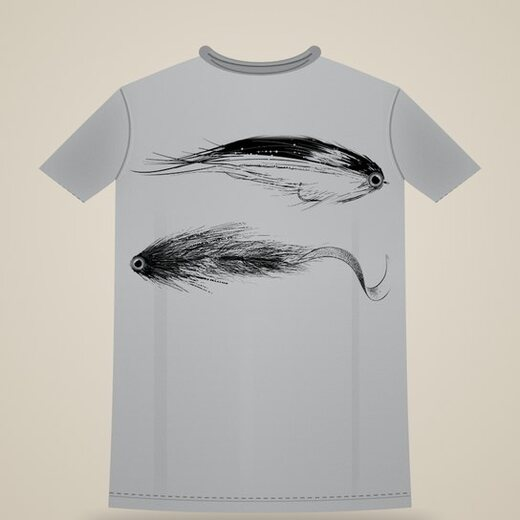
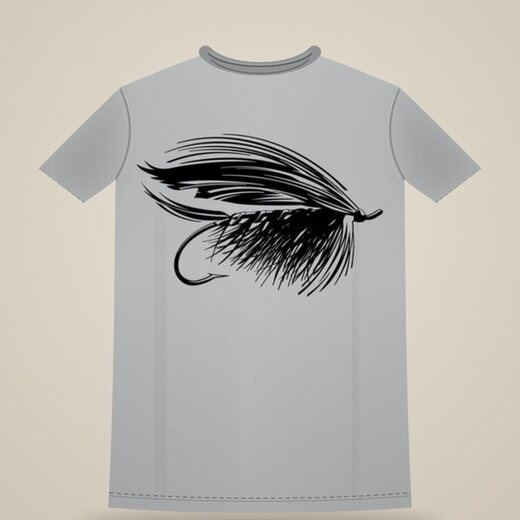
Add files via upload

Changed region(s): [[0.2462, 0.2462, 0.7385, 0.5846]]

diff --git a/index.html b/index.html
@@ -1,11 +1,4 @@
-<!doctype html>
-<html lang="es">
-<head>
-<meta charset="utf-8">
-<meta name="viewport" content="width=device-width, initial-scale=1, viewport-fit=cover">
-<meta name="description" content="Catálogo 2026 de Last Cast: remeras, buzos, chombas y gorras de pesca. Pedí por WhatsApp.">
-<style>body{margin:0}img{max-width:100%}</style>
-<title>Last Cast Catálogo 2026</title>
+<!doctype html><html lang="es"><head><meta charset="utf-8"><meta name="viewport" content="width=device-width,initial-scale=1"><meta name="description" content="Last Cast - indumentaria de pesca 2026"><style>body{margin:0}img{max-width:100%}</style><title>Last Cast Catálogo 2026</title>
 <meta name="claude:viewport-fit-sides" content="cover">
 <link rel="preconnect" href="https://fonts.googleapis.com">
 <link rel="preconnect" href="https://fonts.gstatic.com" crossorigin>
@@ -120,6 +113,12 @@ section { padding-block: 40px 8px; }
 .card .cat { color: var(--muted); font-size: .8rem; }
 .card:hover { border-color: var(--accent); }
 .note { color: var(--muted); font-size: .85rem; margin-top: 12px; }
+.gtabs { display: flex; gap: 8px; margin-top: 16px; }
+.gtab { min-height: 48px; padding: 0 22px; border-radius: 10px; border: 2px solid var(--line); background: transparent; font-family: var(--display); font-weight: 800; letter-spacing: .06em; text-transform: uppercase; font-size: 1.25rem; }
+.gtab.sec { font-size: 1.05rem; font-weight: 700; padding: 0 16px; color: var(--muted); }
+.gtab[aria-pressed="true"] { background: var(--accent); border-color: var(--accent); color: var(--on-accent); }
+.custom { margin-top: 14px; padding: 12px 14px; border: 1.5px solid var(--accent); border-radius: 10px; background: var(--surface); }
+.custom b { display: block; font-family: var(--display); font-size: 1.15rem; letter-spacing: .04em; text-transform: uppercase; color: var(--accent-text); }
 
 /* Producto aparte */
 .split { display: grid; gap: 14px; margin-top: 16px; }
@@ -183,22 +182,22 @@ footer { margin-top: 28px; padding-block: 20px; color: var(--muted); font-size: 
 
 <header class="top">
   <div class="wrap">
-    <a class="brand" href="#inicio" aria-label="Last Cast, inicio"><img src="logo.jpg" alt="" width="34" height="34"><b>Last Cast</b></a>
+    <a class="brand" href="#inicio" aria-label="Last Cast, inicio"><img src="img/logo.jpg" alt="" width="34" height="34"><b>Last Cast</b></a>
     <nav class="nav" aria-label="Secciones">
-      <a href="#disenos">Diseños</a><a href="#chombas">Chombas</a><a href="#gorras">Gorras</a><a href="#talles">Talles</a><a href="#pagos">Pagos</a>
+      <a href="#disenos">Diseños</a><a href="#disenos" id="navMujer">Mujer</a><a href="#chombas">Chombas</a><a href="#gorras">Gorras</a><a href="#talles">Talles</a><a href="#pagos">Pagos</a>
     </nav>
   </div>
 </header>
 
 <main class="wrap" id="inicio">
   <div class="hero">
-    <img src="hero.jpg" alt="Remeras Last Cast colgadas en una cabaña de pesca">
+    <img src="img/hero.jpg" alt="Remeras Last Cast colgadas en una cabaña de pesca">
     <div class="hero-in">
       <div class="eyebrow" style="color:#f58a2f">Catálogo 2026 · Edición limitada</div>
       <h1>Fish more.<br><em>Live wilder.</em></h1>
-      <p>Remeras, buzos canguro, chombas y gorras con diseños exclusivos de pesca. Envíos a todo el país.</p>
+      <p>Remeras y buzos canguro para hombre y mujer, chombas y gorras con diseños exclusivos de pesca. Envíos a todo el país.</p>
       <div class="hero-cta">
-        <a class="btn" href="#disenos">Ver los 40 diseños</a>
+        <a class="btn" href="#disenos">Ver los diseños</a>
         <a class="btn ghost" href="#como">Cómo comprar</a>
       </div>
     </div>
@@ -208,8 +207,8 @@ footer { margin-top: 28px; padding-block: 20px; color: var(--muted); font-size: 
 
   <section id="precios" style="padding-top:28px">
     <div class="prices">
-      <div class="price"><span>Remera</span><strong>$35.000</strong><small>4 colores</small></div>
-      <div class="price"><span>Buzo canguro</span><strong>$50.000</strong><small>3 colores</small></div>
+      <div class="price"><span>Remera · hombre y mujer</span><strong>$35.000</strong><small>4 colores · diseño atrás o adelante</small></div>
+      <div class="price"><span>Buzo canguro · hombre y mujer</span><strong>$50.000</strong><small>3 colores · diseño atrás o adelante</small></div>
       <div class="price"><span>Chomba bordada</span><strong>$45.000</strong><small>3 colores</small></div>
       <div class="price"><span>Gorra</span><strong>$25.000</strong><small>21 combinaciones</small></div>
     </div>
@@ -219,7 +218,7 @@ footer { margin-top: 28px; padding-block: 20px; color: var(--muted); font-size: 
     <div class="eyebrow">Cómo comprar</div>
     <h2>Cuatro pasos</h2>
     <ol class="steps">
-      <li><div><b>Elegí el diseño</b><span>Tocá el que te guste en la grilla. Todos están como remera y como buzo.</span></div></li>
+      <li><div><b>Elegí el diseño</b><span>Tocá el que te guste en la grilla. Todos están como remera y como buzo, con el diseño atrás o adelante, como prefieras.</span></div></li>
       <li><div><b>Prenda y color</b><span>Remera en blanco, gris claro, gris oscuro o negro. Buzo en negro, blanco o gris.</span></div></li>
       <li><div><b>Talle y cantidad</b><span>Mirá la guía de talles más abajo. Si dudás entre dos, elegí el más grande.</span></div></li>
       <li><div><b>Enviá el pedido</b><span>Se arma el mensaje solo y lo mandás por WhatsApp. Te confirmamos y coordinamos el pago.</span></div></li>
@@ -228,8 +227,10 @@ footer { margin-top: 28px; padding-block: 20px; color: var(--muted); font-size: 
 
   <section id="disenos">
     <div class="eyebrow">Remeras y buzos</div>
-    <h2>37 diseños exclusivos</h2>
-    <p class="lead">Elegí el número de diseño. El mismo estampado va en remera o buzo, en el color que prefieras. Las remeras son 100% algodón premium.</p>
+    <h2>Diseños exclusivos</h2>
+    <div class="gtabs" role="group" aria-label="Línea"><button class="gtab" id="gH" type="button" aria-pressed="true">Hombre</button><button class="gtab sec" id="gM" type="button" aria-pressed="false">Mujer</button></div>
+    <p class="lead" id="gLead">Elegí el número de diseño. El mismo estampado va en remera o buzo, en el color que prefieras. Las remeras son 100% algodón premium.</p>
+    <div class="custom"><b>Diseño personalizable</b>En remeras y buzos podés elegir si el diseño va atrás o adelante. Aclaralo al hacer el pedido.</div>
     <div class="chips" id="filters" role="group" aria-label="Filtrar diseños"></div>
     <div class="grid" id="grid"></div>
     <p class="note">Las imágenes son ilustrativas. El color y el tamaño pueden variar según el stock disponible.</p>
@@ -239,7 +240,7 @@ footer { margin-top: 28px; padding-block: 20px; color: var(--muted); font-size: 
     <div class="eyebrow">Bordadas</div>
     <h2>Chombas de piqué</h2>
     <div class="split">
-      <img src="chombas.jpg" alt="Chombas de piqué bordadas Last Cast en azul marino, gris claro y negro" loading="lazy">
+      <img src="img/chombas.jpg" alt="Chombas de piqué bordadas Last Cast en azul marino, gris claro y negro" loading="lazy">
       <div class="panel">
         <div class="price" style="background:none;border:0;padding:0"><span>Precio por chomba</span><strong>$45.000</strong></div>
         <div>
@@ -257,8 +258,8 @@ footer { margin-top: 28px; padding-block: 20px; color: var(--muted); font-size: 
     <h2>Gorras</h2>
     <div class="split">
       <div style="display:grid;gap:14px">
-        <img src="gorras-vintage.jpg" alt="Gorras Vintage gastadas en 9 combinaciones de color y logo" loading="lazy">
-        <img src="gorras-street.jpg" alt="Gorras Streetwear en 6 colores con 2 opciones de logo cada una" loading="lazy">
+        <img src="img/gorras-vintage.jpg" alt="Gorras Vintage gastadas en 9 combinaciones de color y logo" loading="lazy">
+        <img src="img/gorras-street.jpg" alt="Gorras Streetwear en 6 colores con 2 opciones de logo cada una" loading="lazy">
       </div>
       <div class="panel">
         <div class="price" style="background:none;border:0;padding:0"><span>Precio por gorra</span><strong>$25.000</strong></div>
@@ -274,7 +275,8 @@ footer { margin-top: 28px; padding-block: 20px; color: var(--muted); font-size: 
     <h2>Medidas</h2>
     <p class="lead">Medí una prenda tuya sobre una superficie plana. Las medidas pueden variar 1 o 2 cm. Si dudás entre dos talles, elegí el más grande.</p>
     <div class="chips" role="group" aria-label="Tipo de prenda">
-      <button class="chip on" id="tR" type="button">Remeras</button>
+      <button class="chip on" id="tR" type="button">Remeras hombre</button>
+      <button class="chip" id="tW" type="button">Remeras mujer</button>
       <button class="chip" id="tB" type="button">Buzos canguro</button>
     </div>
     <div class="tablewrap" id="tblR" tabindex="0" aria-label="Tabla de talles de remeras">
@@ -289,6 +291,18 @@ footer { margin-top: 28px; padding-block: 20px; color: var(--muted); font-size: 
           <tr><td>6</td><td>62 cm</td><td>78 cm</td></tr>
           <tr><td>8</td><td>65 cm</td><td>81 cm</td></tr>
           <tr><td>10</td><td>67 cm</td><td>83 cm</td></tr>
+        </tbody>
+      </table>
+    </div>
+    <div class="tablewrap" id="tblW" tabindex="0" aria-label="Tabla de talles de remeras de mujer" hidden>
+      <table>
+        <thead><tr><th>Talle</th><th>Ancho</th><th>Largo</th></tr></thead>
+        <tbody>
+          <tr><td>S</td><td>43 cm</td><td>60 cm</td></tr>
+          <tr><td>M</td><td>46 cm</td><td>63 cm</td></tr>
+          <tr><td>L</td><td>48 cm</td><td>65 cm</td></tr>
+          <tr><td>XL</td><td>50 cm</td><td>68 cm</td></tr>
+          <tr><td>XXL</td><td>53 cm</td><td>70 cm</td></tr>
         </tbody>
       </table>
     </div>
@@ -312,16 +326,10 @@ footer { margin-top: 28px; padding-block: 20px; color: var(--muted); font-size: 
     <div class="pay">
       <div><b>Billetera virtual</b><span>Transferencia desde cualquier billetera virtual.</span></div>
       <div><b>Transferencia bancaria</b><span>De banco a banco.</span></div>
-      <div><b>Tarjeta de débito o crédito</b><span>Consultanos las opciones de pago disponibles.</span></div>
+      <div><b>Tarjeta de débito o crédito</b><span>Con cualquier tarjeta, sin recargo.</span></div>
       <div><b>Efectivo</b><span>Te generamos un link de pago para abonar en efectivo.</span></div>
       <div><b>Envíos a todo el país</b><span>Gratis llevando 2 remeras y/o buzos. No incluye gorras.</span></div>
       <div><b>Cambios dentro de los 30 días</b><span>Escribinos por WhatsApp o Instagram y contanos el motivo del cambio.</span></div>
-    </div>
-    <div class="tablewrap">
-      <table>
-        <thead><tr><th>Prenda</th><th>Precio</th></tr></thead>
-        <tbody id="payTbl"></tbody>
-      </table>
     </div>
   </section>
 
@@ -353,13 +361,15 @@ footer { margin-top: 28px; padding-block: 20px; color: var(--muted); font-size: 
     chomba: [["Azul marino", "#1d2a4a"], ["Gris claro", "#b9bbbd"], ["Negro", "#121212"]]
   };
   var TALLES = { remera: ["S", "M", "L", "XL", "XXL", "6", "8", "10"], buzo: ["S", "M", "L", "XL", "XXL"] };
+  function tl(d, pr) { return (d.g === "m" && pr === "remera") ? ["S", "M", "L", "XL", "XXL"] : TALLES[pr]; }
   var GORRAS = {
     "Vintage gastadas": ["Arena, logo chocolate", "Arena, logo naranja", "Verde, logo naranja", "Verde, logo verde oscuro", "Salmón, logo naranja", "Marrón, logo naranja", "Marrón, logo marrón oscuro", "Gris oscura, logo negro", "Gris oscura, logo naranja"],
     "Streetwear": ["Arena, logo naranja", "Arena, logo marrón", "Gris oscura, logo naranja", "Gris oscura, logo gris claro", "Rosa, logo naranja", "Rosa, logo arena", "Verde oscuro, logo verde oscuro", "Verde oscuro, logo naranja", "Azul, logo naranja", "Azul, logo celeste claro", "Verde militar, logo naranja", "Verde militar, logo arena"]
   };
-  var CATS = [["Peces", 17], ["Moscas", 14], ["Pescadores", 5], ["Logo", 1], ["Nuevos diseños", 3]];
+  var CATS = [["Peces", 18], ["Moscas", 13], ["Pescadores", 5], ["Logo", 1]];
   var designs = [], n = 0;
-  CATS.forEach(function (c) { for (var i = 0; i < c[1]; i++) { n++; designs.push({ n: n, cat: c[0], img: "d" + (n < 10 ? "0" : "") + n + ".jpg" }); } });
+  CATS.forEach(function (c) { for (var i = 0; i < c[1]; i++) { n++; designs.push({ n: n, lab: (n < 10 ? "0" : "") + n, g: "h", cat: c[0], img: "img/d" + (n < 10 ? "0" : "") + n + ".jpg" }); } });
+  for (var k = 1; k <= 7; k++) designs.push({ n: 100 + k, lab: "M" + k, g: "m", cat: "Mujer", img: "img/m" + k + ".jpg" });
 
   function $(id) { return document.getElementById(id); }
   function money(v) { return "$" + String(Math.round(v)).replace(/\B(?=(\d{3})+(?!\d))/g, "."); }
@@ -368,7 +378,7 @@ footer { margin-top: 28px; padding-block: 20px; color: var(--muted); font-size: 
   function cap(s) { return s.charAt(0).toUpperCase() + s.slice(1); }
 
   /* Grilla */
-  var filter = "Todos";
+  var filter = "Todos", gender = "h";
   function renderFilters() {
     var box = $("filters"); box.innerHTML = "";
     ["Todos"].concat(CATS.map(function (c) { return c[0]; })).forEach(function (f) {
@@ -380,10 +390,10 @@ footer { margin-top: 28px; padding-block: 20px; color: var(--muted); font-size: 
   }
   function renderGrid() {
     var g = $("grid"); g.innerHTML = "";
-    designs.filter(function (d) { return filter === "Todos" || d.cat === filter; }).forEach(function (d) {
+    designs.filter(function (d) { return d.g === gender && (filter === "Todos" || d.cat === filter); }).forEach(function (d) {
       var b = document.createElement("button");
-      b.type = "button"; b.className = "card"; b.setAttribute("aria-label", "Diseño " + pad(d.n) + ", " + d.cat);
-      b.innerHTML = '<img src="' + d.img + '" alt="Diseño ' + pad(d.n) + '" loading="lazy"><div class="cap"><span class="num"><small>Nº</small>' + pad(d.n) + '</span><span class="cat">' + d.cat + '</span></div>';
+      b.type = "button"; b.className = "card"; b.setAttribute("aria-label", "Diseño " + d.lab + ", " + d.cat);
+      b.innerHTML = '<img src="' + d.img + '" alt="Diseño ' + d.lab + '" loading="lazy"><div class="cap"><span class="num"><small>Nº</small>' + d.lab + '</span><span class="cat">' + d.cat + '</span></div>';
       b.onclick = function () { openPick(d, b); };
       g.appendChild(b);
     });
@@ -410,7 +420,7 @@ footer { margin-top: 28px; padding-block: 20px; color: var(--muted); font-size: 
   var sel = null;
   function openPick(d, trigger) {
     lastFocus = trigger;
-    sel = { d: d, prenda: "remera", color: 0, talle: -1, qty: 1, ubicacion: "Espalda" };
+    sel = { d: d, prenda: "remera", color: 0, talle: -1, qty: 1 };
     drawPick();
   }
   function opts(list, cur, fn, withSw) {
@@ -422,26 +432,24 @@ footer { margin-top: 28px; padding-block: 20px; color: var(--muted); font-size: 
   }
   function drawPick() {
     var s = sel, d = s.d, pr = s.prenda;
-    show('<div class="sh-head"><h3 id="shTitle">Diseño ' + pad(d.n) + '</h3><button class="x" type="button" id="cl" aria-label="Cerrar">×</button></div>' +
-      '<div class="sh-prev"><img src="' + d.img + '" alt="Diseño ' + pad(d.n) + '"><div><div class="sh-price">' + money(P[pr]) + '</div><p class="note" style="margin:4px 0 0">Diseño personalizable: elegí si querés la estampa en el frente o en la espalda. La ubicación del logo puede coordinarse al hacer el pedido.</p></div></div>' +
+    show('<div class="sh-head"><h3 id="shTitle">Diseño ' + d.lab + '</h3><button class="x" type="button" id="cl" aria-label="Cerrar">×</button></div>' +
+      '<div class="sh-prev"><img src="' + d.img + '" alt="Diseño ' + d.lab + '"><div><div class="sh-price">' + money(P[pr]) + '</div><p class="note" style="margin:4px 0 0">Normalmente lleva el diseño en la espalda y el logo Last Cast chico adelante, pero podés personalizarlo y pedirlo atrás o adelante. En la foto se ve en un solo color; podés pedirlo en cualquiera de los disponibles.</p></div></div>' +
       '<div><span class="lab">Prenda</span><div class="opts">' + opts([["Remera"], ["Buzo canguro"]], pr === "remera" ? 0 : 1, "p", false) + '</div></div>' +
-      '<div><span class="lab">Ubicación del diseño</span><div class="opts">' + opts([["Espalda"], ["Frente"]], s.ubicacion === "Espalda" ? 0 : 1, "u", false) + '</div><p class="note">Elegí dónde querés que vaya el diseño: frente o espalda.</p></div>' +
       '<div><span class="lab">Color</span><div class="opts">' + opts(COLORS[pr], s.color, "c", true) + '</div></div>' +
-      '<div><span class="lab">Talle</span><div class="opts">' + opts(TALLES[pr].map(function (t) { return [t]; }), s.talle, "t", false) + '</div></div>' +
+      '<div><span class="lab">Talle</span><div class="opts">' + opts(tl(d, pr).map(function (t) { return [t]; }), s.talle, "t", false) + '</div></div>' +
       '<div><span class="lab">Cantidad</span><div class="qty"><button type="button" id="qm" aria-label="Quitar uno">−</button><output id="qv">' + s.qty + '</output><button type="button" id="qp" aria-label="Sumar uno">+</button></div></div>' +
       '<button class="btn block" type="button" id="add"' + (s.talle < 0 ? ' aria-disabled="true"' : "") + '>' + (s.talle < 0 ? "Elegí un talle" : "Agregar al pedido · " + money(P[pr] * s.qty)) + '</button>');
     var sh = $("sheet");
     $("cl").onclick = closeSheet;
     sh.querySelectorAll("[data-p]").forEach(function (b) { b.onclick = function () { s.prenda = b.dataset.p === "0" ? "remera" : "buzo"; s.color = 0; s.talle = -1; drawPick(); }; });
-    sh.querySelectorAll("[data-u]").forEach(function (b) { b.onclick = function () { s.ubicacion = b.dataset.u === "0" ? "Espalda" : "Frente"; drawPick(); }; });
     sh.querySelectorAll("[data-c]").forEach(function (b) { b.onclick = function () { s.color = +b.dataset.c; drawPick(); }; });
     sh.querySelectorAll("[data-t]").forEach(function (b) { b.onclick = function () { s.talle = +b.dataset.t; drawPick(); }; });
     $("qm").onclick = function () { if (s.qty > 1) { s.qty--; drawPick(); } };
     $("qp").onclick = function () { if (s.qty < 20) { s.qty++; drawPick(); } };
     $("add").onclick = function () {
       if (s.talle < 0) return;
-      var item = { n: d.n, img: d.img, prenda: pr, color: COLORS[pr][s.color][0], talle: TALLES[pr][s.talle], qty: s.qty, ubicacion: s.ubicacion };
-      var ex = cart.filter(function (i) { return i.n === item.n && i.prenda === item.prenda && i.color === item.color && i.talle === item.talle; })[0];
+      var item = { lab: d.lab, g: d.g, img: d.img, prenda: pr, color: COLORS[pr][s.color][0], talle: tl(d, pr)[s.talle], qty: s.qty };
+      var ex = cart.filter(function (i) { return i.lab === item.lab && i.prenda === item.prenda && i.color === item.color && i.talle === item.talle; })[0];
       if (ex) ex.qty += item.qty; else cart.push(item);
       updateBar(); openCart();
     };
@@ -452,15 +460,15 @@ footer { margin-top: 28px; padding-block: 20px; color: var(--muted); font-size: 
     var c = 0; cart.forEach(function (i) { c += i.qty; });
     var free = c >= 2, sub = total();
     var lines = cart.map(function (i, k) {
-      return '<div class="line"><img src="' + i.img + '" alt=""><div><b>Diseño ' + pad(i.n) + " · " + (i.prenda === "buzo" ? "Buzo" : "Remera") + '</b><small>' + i.color + " · Diseño en " + (i.ubicacion || "Espalda").toLowerCase() + " · Talle " + i.talle + " · x" + i.qty + '</small><button class="rm" type="button" data-rm="' + k + '">Quitar</button></div><strong>' + money(i.qty * P[i.prenda]) + "</strong></div>";
+      return '<div class="line"><img src="' + i.img + '" alt=""><div><b>Diseño ' + i.lab + " · " + (i.prenda === "buzo" ? "Buzo" : "Remera") + '</b><small>' + i.color + " · Talle " + i.talle + " · x" + i.qty + '</small><button class="rm" type="button" data-rm="' + k + '">Quitar</button></div><strong>' + money(i.qty * P[i.prenda]) + "</strong></div>";
     }).join("");
     var msg = "Hola! Quiero hacer este pedido de Last Cast:\n" + cart.map(function (i) {
-      return "- Diseño " + pad(i.n) + ", " + (i.prenda === "buzo" ? "buzo canguro" : "remera") + ", " + i.color.toLowerCase() + ", diseño en " + (i.ubicacion || "Espalda").toLowerCase() + ", talle " + i.talle + ", x" + i.qty;
-    }).join("\n") + "\nTotal: " + money(sub) + (free ? " (envío gratis)" : " (más envío)") + "\nMi forma de pago: ";
+      return "- Diseño " + i.lab + (i.g === "m" ? " (mujer)" : "") + ", " + (i.prenda === "buzo" ? "buzo canguro" : "remera") + ", " + i.color.toLowerCase() + ", talle " + i.talle + ", x" + i.qty;
+    }).join("\n") + "\nTotal: " + money(sub) + (free ? " (envío gratis)" : " (más envío)") + "\nUbicación del diseño (atrás o adelante): \nMi forma de pago: ";
     show('<div class="sh-head"><h3 id="shTitle">Tu pedido</h3><button class="x" type="button" id="cl" aria-label="Cerrar">×</button></div>' +
       "<div>" + lines + "</div>" +
       '<div class="ship' + (free ? " ok" : "") + '">' + (free ? "Tenés envío gratis." : "Sumá 1 remera o buzo más y el envío es gratis.") + "</div>" +
-      '<div class="sum"><div class="tot"><span>Total</span><span>' + money(sub) + '</span></div><div><span>Con tarjeta de crédito (+10%)</span><span>' + money(sub * 1.1) + "</span></div></div>" +
+      '<div class="sum"><div class="tot"><span>Total</span><span>' + money(sub) + "</span></div></div>" +
       '<a class="btn wa block" target="_blank" rel="noopener" href="' + wa(msg) + '">Enviar pedido por WhatsApp</a>' +
       '<button class="btn ghost block" type="button" id="more">Seguir eligiendo</button>');
     $("cl").onclick = closeSheet; $("more").onclick = closeSheet;
@@ -486,17 +494,25 @@ footer { margin-top: 28px; padding-block: 20px; color: var(--muted); font-size: 
   gs.onchange = drawG;
 
   /* Talles */
-  function tab(r) {
-    $("tblR").hidden = !r; $("tblB").hidden = r;
-    $("tR").classList.toggle("on", r); $("tB").classList.toggle("on", !r);
+  function tab(k) {
+    ["R", "W", "B"].forEach(function (x) { $("tbl" + x).hidden = x !== k; $("t" + x).classList.toggle("on", x === k); });
   }
-  $("tR").onclick = function () { tab(true); }; $("tB").onclick = function () { tab(false); };
+  $("tR").onclick = function () { tab("R"); }; $("tW").onclick = function () { tab("W"); }; $("tB").onclick = function () { tab("B"); };
 
-  /* Pagos */
-  $("payTbl").innerHTML = [["Remera", "remera"], ["Buzo canguro", "buzo"], ["Chomba bordada", "chomba"], ["Gorra", "gorra"]].map(function (r) {
-    return "<tr><td>" + r[0] + "</td><td>" + money(P[r[1]]) + "</td></tr>";
-  }).join("");
-  document.querySelectorAll("#payTbl td:first-child").forEach(function (td) { td.style.fontSize = "1rem"; });
+  /* Hombre / Mujer */
+  var LEAD = {
+    h: "Elegí el número de diseño. El mismo estampado va en remera o buzo, en el color que prefieras. Las remeras son 100% algodón premium.",
+    m: "Línea mujer: 7 diseños, todos disponibles en remera y en buzo canguro, al mismo precio y en los mismos colores. Las remeras tienen talles de dama (ver guía de talles)."
+  };
+  function setGender(g) {
+    gender = g; filter = "Todos";
+    $("gH").setAttribute("aria-pressed", String(g === "h")); $("gM").setAttribute("aria-pressed", String(g === "m"));
+    $("filters").hidden = g === "m"; $("gLead").textContent = LEAD[g];
+    renderFilters(); renderGrid();
+  }
+  $("gH").onclick = function () { setGender("h"); }; $("gM").onclick = function () { setGender("m"); };
+  $("navMujer").onclick = function () { setGender("m"); };
+
 
   /* Contacto */
   $("contactBtn").href = wa("Hola! Vi el catálogo 2026 de Last Cast y quiero consultar por ");
@@ -505,5 +521,4 @@ footer { margin-top: 28px; padding-block: 20px; color: var(--muted); font-size: 
   renderFilters(); renderGrid(); drawCh(); drawG(); updateBar();
 })();
 </script>
-
 </html>
